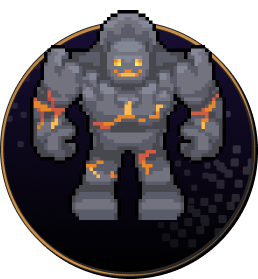
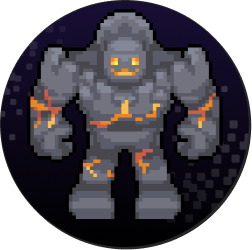
Hero Updates

diff --git a/app/layouts/TopTitle.tsx b/app/layouts/TopTitle.tsx
@@ -39,22 +39,22 @@ const TopTitle: React.FC<TopTitleProps> = ({activeTab}) => {
                 <p>&nbsp;&nbsp;&nbsp;UQCa....d23a<img className="float-right" src="/assets/images/icons/ton.png" alt="ton"/></p>
             </div>
             <div className={`tab-button`}>
-            <div className={`tab-border active`}>
+            <div className={`top-tab-border`}>
                         <img src={`${tabItems[0].image}`} alt="Icon" width={20} height={20}/>
                     </div>
-                    <span className="mt-1">{tabItems[0].text}</span>
+                    <span className="mt-1 text-[8px]">{tabItems[0].text}</span>
                 </div>
                 <div className={`tab-button`}>
-                    <div className={`tab-border active`}>
+                    <div className={`top-tab-border`}>
                         <img src={`${tabItems[1].image}`} alt="Icon" width={20} height={20}/>
                     </div>
-                    <span className="mt-1">{tabItems[1].text}</span>
+                    <span className="mt-1 text-[8px]">{tabItems[1].text}</span>
                 </div>
                 <div className={`tab-button`}>
-                    <div className={`tab-border active`}>
+                    <div className={`top-tab-border`}>
                         <img src={`${tabItems[2].image}`} alt="Icon" width={20} height={20}/>
                     </div>
-                    <span className="mt-1 text-[#FF3E3E]">{tabItems[2].text}</span>
+                    <span className="mt-1 text-[8px]">{tabItems[2].text}</span>
                 </div>
         </div>
     );

diff --git a/app/components/elements/TabMenu.tsx b/app/components/elements/TabMenu.tsx
@@ -1,5 +1,6 @@
 "use client";
 import React, { useState } from "react";
+import Image from "next/image";
 
 export interface TabItem {
     image: string;
@@ -13,21 +14,14 @@ export interface TabProps {
 }
 
 const TabMenu: React.FC<TabProps> = ({ tabs, content, onTabChange }) => {
-    // Manage the active tab index
     const [activeTab, setActiveTab] = useState(0)
 
-    const [_size, onSizeChange] = useState("full");
     const handleTabClick = (index: number) => {
         setActiveTab(index);
         console.log("in tab menu " + index);
         
         if (onTabChange) {
-            onTabChange(index); // Notify parent of the active tab
-            
-            if (index ==3)
-                onSizeChange("hero");
-            else
-                onSizeChange("full");
+            onTabChange(index);
         }
     };
 
@@ -50,7 +44,7 @@ const TabMenu: React.FC<TabProps> = ({ tabs, content, onTabChange }) => {
                 {tabs.map((tab, index) => (
                     <div key={index} className={`tab-button`} onClick={() => handleTabClick(index)}>
                         <div className={`tab-border ${index === activeTab ? "active" : ""}`}>
-                            <img src={`${tab.image}`} alt="Icon" width={20} height={20} />
+                            <Image src={`${tab.image}`} alt="Icon" width={20} height={20} />
                         </div>
 
                         <span className="tab-button-text">{tab.text}</span>

diff --git a/app/components/Contents/Hero.tsx b/app/components/Contents/Hero.tsx
@@ -4,7 +4,6 @@ import "@/app/styles/pages/hero.css";
 import HeroEquipment from "../elements/Hero/HeroEquipment";
 import HeroStats from "../elements/Hero/HeroStats";
 import WebApp from "@twa-dev/sdk";
-import HeroSelect from "@/app/components/elements/Hero/HeroSelect";
 
 interface UserData {
     id: number;
@@ -17,6 +16,7 @@ interface UserData {
 
 const Hero = () => {
     const [userData, setUserData] = useState<UserData | null>(null);
+    const [isSelected, setIsSelected] = useState<boolean>(true);
 
     useEffect(() => {
         console.log("TG_123_Hero: start use effect");
@@ -41,8 +41,7 @@ const Hero = () => {
         <div className="general-hero-container">
             <div className="text-center text-xl font-extrabold">Heroes 1/2</div>
             {userData ? <HeroEquipment name={userData.username || "No Username"} /> : <HeroEquipment name="Avalorians User" />}
-            <HeroStats />
-            <HeroSelect />
+            <HeroStats isSelected={isSelected} />
         </div>
     );
 };

diff --git a/app/components/elements/Hero/HeroStats.tsx b/app/components/elements/Hero/HeroStats.tsx
@@ -1,13 +1,15 @@
 import React from "react";
+import HeroSelect from "@/app/components/elements/Hero/HeroSelect";
 
 interface HeroStatsProps {
     hit_points?: number;
     armor?: number;
     attack_speed?: number;
     splash_damage?: number;
+    isSelected: boolean;
 }
 
-const HeroStats: React.FC<HeroStatsProps> = ({ hit_points = 10, armor = 12, attack_speed = 8, splash_damage = 3 }) => {
+const HeroStats: React.FC<HeroStatsProps> = ({ hit_points = 10, armor = 12, attack_speed = 8, splash_damage = 3, isSelected }) => {
     return (
         <div className="stats-container">
             <div className="stats-row">
@@ -46,6 +48,7 @@ const HeroStats: React.FC<HeroStatsProps> = ({ hit_points = 10, armor = 12, atta
                     </div>
                 </div>
             </div>
+            <HeroSelect isSelected={isSelected}/>
         </div>
     );
 };

diff --git a/app/styles/pages/hero.css b/app/styles/pages/hero.css
@@ -138,6 +138,12 @@
     z-index: 1; /* Lowest layer */
     left: 50%; /* Move the image to the horizontal center */
     transform: translateX(-50%); /* Adjust for the element's width to truly center it */
+    border: #FFA33E 3px solid;
+    border-radius: 50%;
+}
+
+.character-image.selected {
+    border-color: #4FD464;
 }
 
 .character-section .user-name {
@@ -189,11 +195,10 @@
     opacity: 100;
     background-color: #FFA33E;
     align-content: center;
-    position: absolute;
     box-shadow: 0 4px 0 #9F6000, 0 3px 10px 0 #9F6000;
 }
 
-.character-select.active {
+.character-select.selected {
     background-color: #4FD464;
     box-shadow: 0 4px 0 #16A32C, 0 3px 10px 0 #16A32C;
 }

diff --git a/app/components/elements/Hero/HeroSelect.tsx b/app/components/elements/Hero/HeroSelect.tsx
@@ -1,13 +1,17 @@
-export default function HeroSelect() {
+interface HeroSelectProps {
+    isSelected: boolean;
+}
+
+export default function HeroSelect(props: HeroSelectProps) {
 
     const handleButtonClick = () => {
         console.log('click');
     }
 
-    return <>
-        <button className="character-select justify-items-center grid"
+    return <div className="stats-row">
+        <button className={`character-select justify-items-center grid ${props.isSelected ? 'selected' : ''}` }
                 value="Select" onClick={() => handleButtonClick()}>
             <p className="character-select-text">Select</p>
         </button>
-    </>
+    </div>
 }

diff --git a/app/components/elements/Hero/HeroEquipment.tsx b/app/components/elements/Hero/HeroEquipment.tsx
@@ -13,7 +13,7 @@ const HeroEquipment: React.FC<EquipmentProps> = ({ head = "", body = "", pants =
     return (
         <div>
             <div className="character-section">
-                <div className="character-image">
+                <div className="character-image selected">
                     <Image src="/assets/images/Hero/tempCharacterImage.png" width={258} height={279} alt="character image" />
                 </div>
                 <div className="curved-box user-name">{name}</div>

diff --git a/app/layouts/BottomTabItems.tsx b/app/layouts/BottomTabItems.tsx
@@ -69,13 +69,9 @@ const contentTabs = [
 
 const FrontOverlay: React.FC<BottomTabDefaults> = ({ tab, currentActiveTab }) => {
     const [activeTab, onActiveTabChange] = useState(tab);
-    const [isHeroTab, onHeroTab] = useState(activeTab == 3);
 
     const handleTabClick = (index: number) => {
         onActiveTabChange(index);
-        onHeroTab(index == 1);
-        if (currentActiveTab) currentActiveTab(index);
-
     };
 
     return (

diff --git a/app/globals.css b/app/globals.css
@@ -298,6 +298,16 @@ blockquote {
     justify-content: center;
 }
 
+.overlay-menu .tab-button .top-tab-border {
+    background-color: #FFAB2B;
+    border-radius: 10px;
+    width: 30px;
+    height: 30px;
+    display: flex;
+    align-items: center;
+    justify-content: center;
+}
+
 .overlay-menu .tab-icon {
     width: 80%; /* Make the image width relative to the tab */
     height: auto; /* Maintain aspect ratio */

diff --git a/app/layout.tsx b/app/layout.tsx
@@ -34,7 +34,6 @@ export default function RootLayout({
             </head>
             <body className={`${geistSans.variable} ${geistMono.variable} antialiased`}>
                 <Providers>
-                    {/* <StartScripts></StartScripts> */}
                     {children}
                     <FrontOverlay tab={4} />
                 </Providers>

diff --git a/app/pages/social-quests/page.tsx b/app/pages/social-quests/page.tsx
@@ -1,14 +1,8 @@
 import React from "react";
-import Button from "@/app/components/elements/QuestsButton";
-
 
 const SocialQuests = () => {
-
-    
-
     return (
         <div>
-            
         </div>
     );
 };
